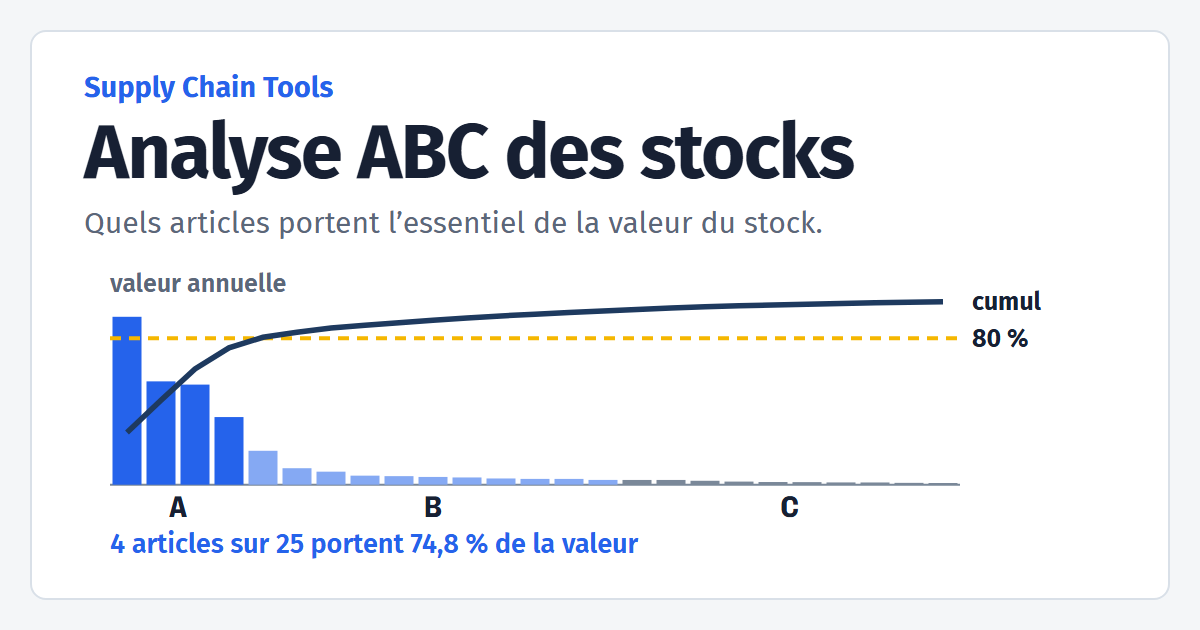
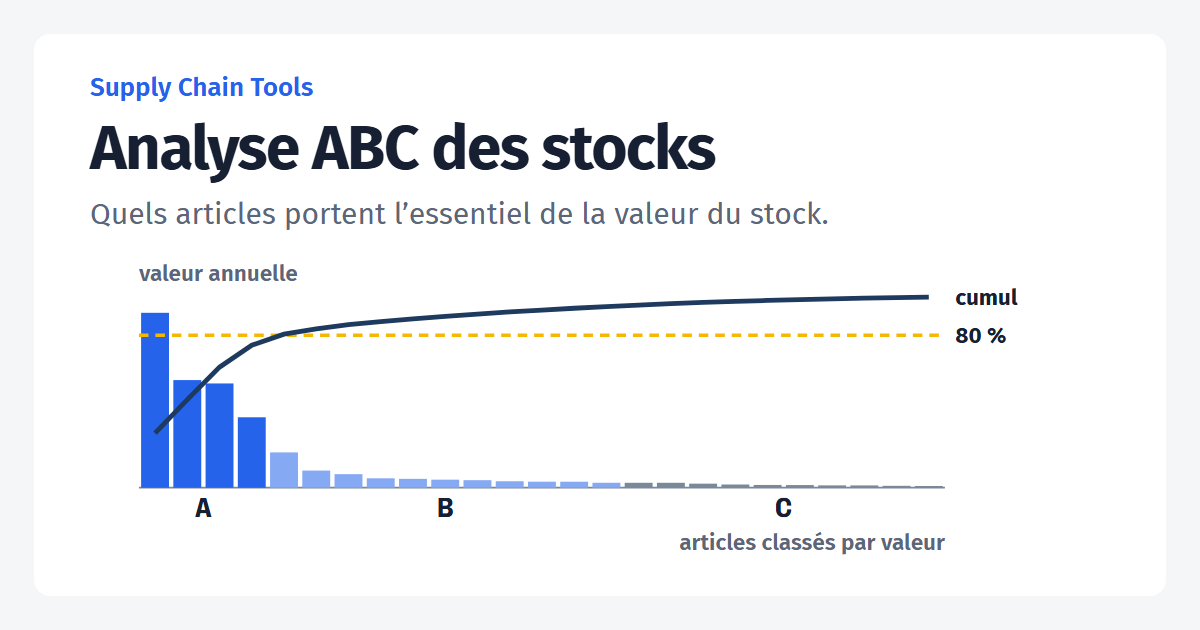
Build the ABC card to the ordering calculator's
The card the ordering calculator carried on 12 September is the one to
match: the sheet inset into the ground, the family line, the tool named
at 62px, one sentence under it, and the picture taking the rest. This
card now shares those measurements exactly.

It prints no result. An unexplained 74,8 tells a reader scrolling past
nothing at all; what the picture has to say — a handful of lines carry
the value, the tail carries almost none — it says by being a Pareto.
Both axes are named in words, as they are on the sibling.

The plot's viewBox is measured from the box it lands in rather than
written down and stretched: the sibling can scale its curves freely, but
stretching twenty-five bars leaves the bars one width and the gaps
between them another.

The image address carries the file's own hash. Crawlers cache a preview
by URL and keep serving their stored bitmap after the file behind it
changes, so redrawing the card now changes the address with it.

diff --git a/apps/abc/scripts/og-template.html b/apps/abc/scripts/og-template.html
@@ -6,19 +6,20 @@
 <link rel="preconnect" href="https://fonts.gstatic.com" crossorigin>
 <link rel="stylesheet" href="https://fonts.googleapis.com/css2?family=Fira+Sans:ital,wght@0,400;0,600;0,700;1,600&family=Chivo+Mono:wght@400;600;700&display=block">
 <style>
-  /* The social preview, built to the tool page's own opening: the family name,
-     the tool named at full size, one line saying what it answers, and the
-     picture under it running the whole width.
+  /* The social preview, sharing every measurement with the ordering
+     calculator's card: the same sheet inset into the same ground, the same
+     family line, the same 62px name, the same 30px sentence under it, and the
+     picture taking whatever is left. The two sites are one family, and a feed
+     is where that is either obvious or not at all.
 
-     A feed is not a dashboard. The card before this one split the sheet into a
-     column of figures and a squeezed plot, and at the 350px a phone gives it
-     neither half survived: the figures lost their labels and the Pareto lost
-     its tail. So the sheet now carries one thing largely rather than five
-     things small. The Pareto is the argument — a cliff, then twenty lines
-     worth almost nothing — and it gets the full width to make it in.
+     The card names the tool and draws what it draws. It prints no result. An
+     unexplained 74,8 tells a reader scrolling past nothing at all, and the
+     figures a reader does want are on the other side of the click; what the
+     picture has to say — that a handful of lines carry the value and the tail
+     carries almost none — it says by being a Pareto.
 
      Read at about 550 wide in a desktop feed and 350 on a phone, so nothing is
-     under 25px, there are no hairlines under 2px, and the chart is drawn at
+     under 26px, there are no hairlines under 2px, and the chart is drawn at
      weights that survive being halved.
 
      Designed against what the network prints around it. LinkedIn puts the
@@ -27,14 +28,12 @@
      shown in the feed. So the address is not repeated here, and the picture
      carries the meaning on its own.
 
-     The figures are the tool's worked example, the cafe's year of supplies the
+     The bars are the tool's worked example, the cafe's year of supplies the
      live page loads from "Charger l'exemple", so the card and the page it
-     links to say the same thing. */
+     links to draw the same chart. */
   :root {
-    --ground: #f4f6f8; --surface: #ffffff;
-    --line: #d9e0e8; --line-strong: #7a8899;
-    --text: #172033; --text-2: #5b6779;
-    --accent: #2563eb;
+    --ground: #f4f6f8; --surface: #ffffff; --line: #d9e0e8; --line-strong: #7a8899;
+    --text: #172033; --text-2: #5b6779; --accent: #2563eb;
     --rank-1: #2563eb; --rank-2: #85a9f3; --rank-3: #7a8899;
     --threshold: #f5b700; --trace: #1e3a5f;
     --mono: 'Chivo Mono', monospace; --sans: 'Fira Sans', system-ui, sans-serif;
@@ -43,53 +42,43 @@
   body {
     width: 1200px; height: 630px; background: var(--ground);
     font-family: var(--sans); color: var(--text);
-    padding: 30px; display: flex;
   }
   .sheet {
-    flex: 1; background: var(--surface); border: 2px solid var(--line);
-    border-radius: 16px; padding: 38px 52px 34px;
-    display: flex; flex-direction: column; min-height: 0;
+    position: absolute; inset: 34px; background: var(--surface); border-radius: 16px;
+    display: flex; flex-direction: column; overflow: hidden;
   }
-
-  /* The family, above the tool rather than beside it. On the page this is the
-     line that tells a reader there are siblings; on the card it is also the
-     only place the suite is named, so it keeps its own line and its own
-     colour. */
-  .family { font-size: 29px; font-weight: 700; color: var(--accent); }
-
-  /* The tool at the size the page sets it. Four words at 76px is the widest
-     the sheet holds on one line, and one line is what keeps the picture tall
-     enough to be worth printing. */
-  .tool {
-    font-size: 76px; font-weight: 700; line-height: 1.04;
-    letter-spacing: -0.022em; margin-top: 8px;
+  .head { padding: 38px 56px 0; flex: none; }
+  .family { font-size: 26px; font-weight: 600; color: var(--accent); }
+  /* 24ch rather than the sibling's 20ch. Its name is five words and wants the
+     break; this one is four and fits on a line, and forcing "Analyse ABC des"
+     over "stocks" breaks the name where nobody says it. */
+  h1 {
+    font-size: 62px; font-weight: 700; letter-spacing: -0.024em; line-height: 1.02;
+    margin-top: 14px; max-width: 24ch;
   }
+  .sub { font-size: 30px; line-height: 1.25; color: var(--text-2); margin-top: 16px; }
 
-  /* What the tool answers, in the words a reader would use for it. Held to
-     about 60 characters so it never takes a second line away from the plot. */
-  .lead { font-size: 30px; line-height: 1.32; color: var(--text-2); margin-top: 12px; }
-
-  .plot { flex: 1; min-height: 0; margin-top: 22px; }
+  /* The picture gets the rest, and a floor under it: a Pareto starved of
+     height flattens into a row of stubs and a curve with nowhere to climb. */
+  .plot { flex: 1; min-height: 250px; padding: 18px 56px 34px; }
   svg { width: 100%; height: 100%; display: block; }
-
-  .axis { font-size: 25px; font-weight: 600; fill: var(--text-2); }
-  .band { font-family: var(--mono); font-size: 30px; font-weight: 700; fill: var(--text); }
+  .axis { font-size: 26px; font-weight: 600; fill: var(--text-2); }
   .edge {
-    font-size: 25px; font-weight: 700; fill: var(--text);
-    paint-order: stroke; stroke: var(--surface); stroke-width: 7px; stroke-linejoin: round;
+    font-size: 26px; font-weight: 700; fill: var(--text);
+    paint-order: stroke; stroke: var(--surface); stroke-width: 9px; stroke-linejoin: round;
   }
-  /* The finding, set under the run of bars it describes rather than printed as
-     a statistic somewhere else on the sheet. It is the only blue ink in the
-     drawing besides the class A bars, and it names the same four lines they
-     are. */
-  .call { font-size: 27px; font-weight: 600; fill: var(--accent); }
+  /* The band letters in the figure face, as the sibling sets Q* in it: a
+     letter naming a class is a label on the data, not prose about it. */
+  .band { font-family: var(--mono); font-size: 32px; font-weight: 700; fill: var(--text); }
 </style>
 </head>
 <body>
   <div class="sheet">
-    <div class="family">Supply Chain Tools</div>
-    <h1 class="tool">Analyse ABC des stocks</h1>
-    <p class="lead">Quels articles portent l&rsquo;essentiel de la valeur du stock.</p>
+    <div class="head">
+      <div class="family">Supply Chain Tools</div>
+      <h1>Analyse ABC des stocks</h1>
+      <p class="sub">Quels articles portent l&rsquo;essentiel de la valeur du stock.</p>
+    </div>
     <div class="plot"><svg id="chart"></svg></div>
   </div>
 
@@ -116,18 +105,20 @@
   const bandOf = (i) => (cumulative[i] <= A_CUT ? 'A' : cumulative[i] <= B_CUT ? 'B' : 'C');
   const FILL = { A: 'var(--rank-1)', B: 'var(--rank-2)', C: 'var(--rank-3)' };
 
-  /* The viewBox is taken from the box the drawing lands in rather than written
-     down, so the two can never disagree: guess it and the browser either
-     letterboxes the chart inside its own column or, with preserveAspectRatio
-     off, stretches every label out of shape. Measured, the drawing is painted
-     at 1:1 and a 25px label is 25px on the sheet.
+  /* The viewBox is measured from the box the drawing lands in rather than
+     written down. The sibling writes its own down and scales it with
+     preserveAspectRatio="none", which it can afford because its drawing is
+     curves; here the drawing is twenty-five bars, and stretching one axis
+     against the other leaves the bars one width and the gaps between them
+     another. Measured, nothing is scaled: a 26px label is 26px on the sheet.
 
      R leaves room for the two names set outside the plot, B for the band
-     letters and the line under them. */
+     letters and the axis named on their line. */
   const box = document.querySelector('.plot');
   const W = box.clientWidth, HT = box.clientHeight;
   document.getElementById('chart').setAttribute('viewBox', '0 0 ' + W + ' ' + HT);
-  const L = 26, R = W - 156, T = 34, B = HT - 78;
+  const L = 34, R = W - 168, T = 52, B = HT - 86;
+
   const N = values.length;
   const bw = (R - L) / N;
   /* The tallest bar stops short of the top. Run to the ceiling and it reads as
@@ -146,12 +137,17 @@
     return el;
   };
 
-  /* The baseline only. Bars stand on it and begin at the axis, so a vertical
-     rule on the left would be hidden behind the first bar for its whole length
-     except the stub above it, and that stub reads as a stray mark rather than
-     as an axis. */
+  /* The baseline only. The sibling draws both rules because its curves start
+     away from the left edge and need one to be measured against; bars stand on
+     the baseline and begin at the axis, so a vertical rule there is hidden
+     behind the first bar for its whole length except the stub above it, and
+     that stub reads as a stray mark rather than as an axis.
+
+     Both axes are named in words all the same, as they are there. A reader who
+     never clicks should still come away knowing what is plotted against
+     what. */
   add('line', { x1: L, x2: R, y1: B, y2: B, stroke: 'var(--line-strong)', 'stroke-width': 2 });
-  add('text', { x: L, y: T - 10, class: 'axis' }, 'valeur annuelle');
+  add('text', { x: L, y: T - 18, class: 'axis' }, 'valeur annuelle');
 
   values.forEach((v, i) => {
     const x = L + i * bw;
@@ -171,41 +167,28 @@
     .join(' ');
   add('path', { d: cumPath, fill: 'none', stroke: 'var(--trace)', 'stroke-width': 5.5 });
 
-  /* The curve named where it ends rather than in a legend to be looked up. It
-     also fills the one empty corner a Pareto leaves, which is the corner the
-     curve is heading for. */
-  add('text', { x: R + 12, y: yCum(100) + 8, class: 'edge', fill: 'var(--trace)' }, 'cumul');
+  /* The curve named where it ends, the way the sibling names its three traces:
+     at the line rather than in a legend to be looked up. It also fills the one
+     empty corner a Pareto leaves, which is the corner the curve is heading
+     for. */
+  add('text', { x: R + 12, y: yCum(100) + 9, class: 'edge', fill: 'var(--trace)' }, 'cumul');
 
   /* Each band named under the run of bars it covers, in ink rather than in its
      own fill: --rank-2 measures 2.4:1 against white and cannot carry a letter.
      The bars hold the colour, the position holds the mapping. */
   const firstOf = (band) => values.findIndex((_, i) => bandOf(i) === band);
   const lastOf = (band) => values.reduce((acc, _, i) => (bandOf(i) === band ? i : acc), -1);
-  const spans = {};
   for (const band of ['A', 'B', 'C']) {
     const from = firstOf(band), to = lastOf(band);
     if (from < 0) continue;
-    spans[band] = [from, to];
     const mid = L + ((from + to) / 2 + 0.5) * bw;
-    add('text', { x: mid, y: B + 32, 'text-anchor': 'middle', class: 'band' }, band);
+    add('text', { x: mid, y: B + 34, 'text-anchor': 'middle', class: 'band' }, band);
   }
 
-  /* The whole point of the classification, said once, on the row under the
-     letters, which is the last row on the sheet and so gets it to itself. The
-     horizontal axis goes unnamed: bars falling from left to right under the
-     letters A, B and C already say the list is sorted by value and cut into
-     three, and a name repeating that would be the second thing on a row that
-     reads better with one. Anchored to the left edge rather than centred on
-     the A run: the run is four bars wide and the sentence is not. */
-  const aCount = spans.A[1] - spans.A[0] + 1;
-  const aShare = cumulative[spans.A[1]].toLocaleString('fr-FR', {
-    minimumFractionDigits: 1, maximumFractionDigits: 1,
-  });
-  add(
-    'text',
-    { x: L, y: B + 68, class: 'call' },
-    aCount + ' articles sur ' + N + ' portent ' + aShare + ' % de la valeur',
-  );
+  /* The horizontal axis named under the letters rather than beside them. The
+     letters are themselves the axis's tick labels and the C run reaches the
+     right edge, so a name set on their line lands on top of the C. */
+  add('text', { x: R, y: B + 72, 'text-anchor': 'end', class: 'axis' }, 'articles classés par valeur');
 
   document.documentElement.dataset.drawn = 'true';
 </script>

diff --git a/apps/abc/app/layout.tsx b/apps/abc/app/layout.tsx
@@ -1,3 +1,7 @@
+import { createHash } from 'node:crypto';
+import { readFileSync } from 'node:fs';
+import { join } from 'node:path';
+
 import type { Metadata } from 'next';
 import { Chivo_Mono, Fira_Sans } from 'next/font/google';
 
@@ -62,6 +66,28 @@ const text = Fira_Sans({
  */
 const siteUrl = process.env.NEXT_PUBLIC_SITE_URL ?? 'https://abc-analyser.vercel.app';
 
+/**
+ * The social image, addressed by its contents.
+ *
+ * LinkedIn, Slack and the rest cache a preview by the image's URL and keep
+ * serving their own copy of the bitmap long after the file behind it changes —
+ * re-scraping the page does not help, because the address it finds is the
+ * address they already hold. So the file's own hash rides along in the query
+ * string: redraw the card and the address changes with it, and every crawler
+ * sees a resource it has never fetched. Leave the card alone and the address
+ * does not move, so nothing re-downloads for free.
+ *
+ * Read at build time, which is the only time it can be read: this is a static
+ * export and there is no server later to ask. The path is the one `npm run og`
+ * writes to. Next addresses its own icons exactly this way.
+ */
+const ogImage =
+  '/og.png?' +
+  createHash('sha256')
+    .update(readFileSync(join(process.cwd(), 'public', 'og.png')))
+    .digest('hex')
+    .slice(0, 16);
+
 export const metadata: Metadata = {
   metadataBase: new URL(siteUrl),
   title: fr.meta.title,
@@ -75,10 +101,10 @@ export const metadata: Metadata = {
     url: '/',
     images: [
       {
-        url: '/og.png',
+        url: ogImage,
         width: 1200,
         height: 630,
-        alt: "Le nom de l'outil au-dessus du diagramme de Pareto de l'exemple : vingt-cinq articles classés par valeur annuelle décroissante, la courbe cumulée franchissant le seuil de 80 %, les bandes A, B et C sous les barres, et le constat que 4 articles sur 25 portent 74,8 % de la valeur.",
+        alt: "Le nom de l'outil au-dessus du diagramme de Pareto de l'exemple : vingt-cinq articles classés par valeur annuelle décroissante, la courbe cumulée franchissant le seuil de 80 %, et les bandes A, B et C nommées sous les barres.",
       },
     ],
   },
@@ -89,7 +115,7 @@ export const metadata: Metadata = {
     card: 'summary_large_image',
     title: fr.meta.title,
     description: fr.meta.description,
-    images: ['/og.png'],
+    images: [ogImage],
   },
 };
 
